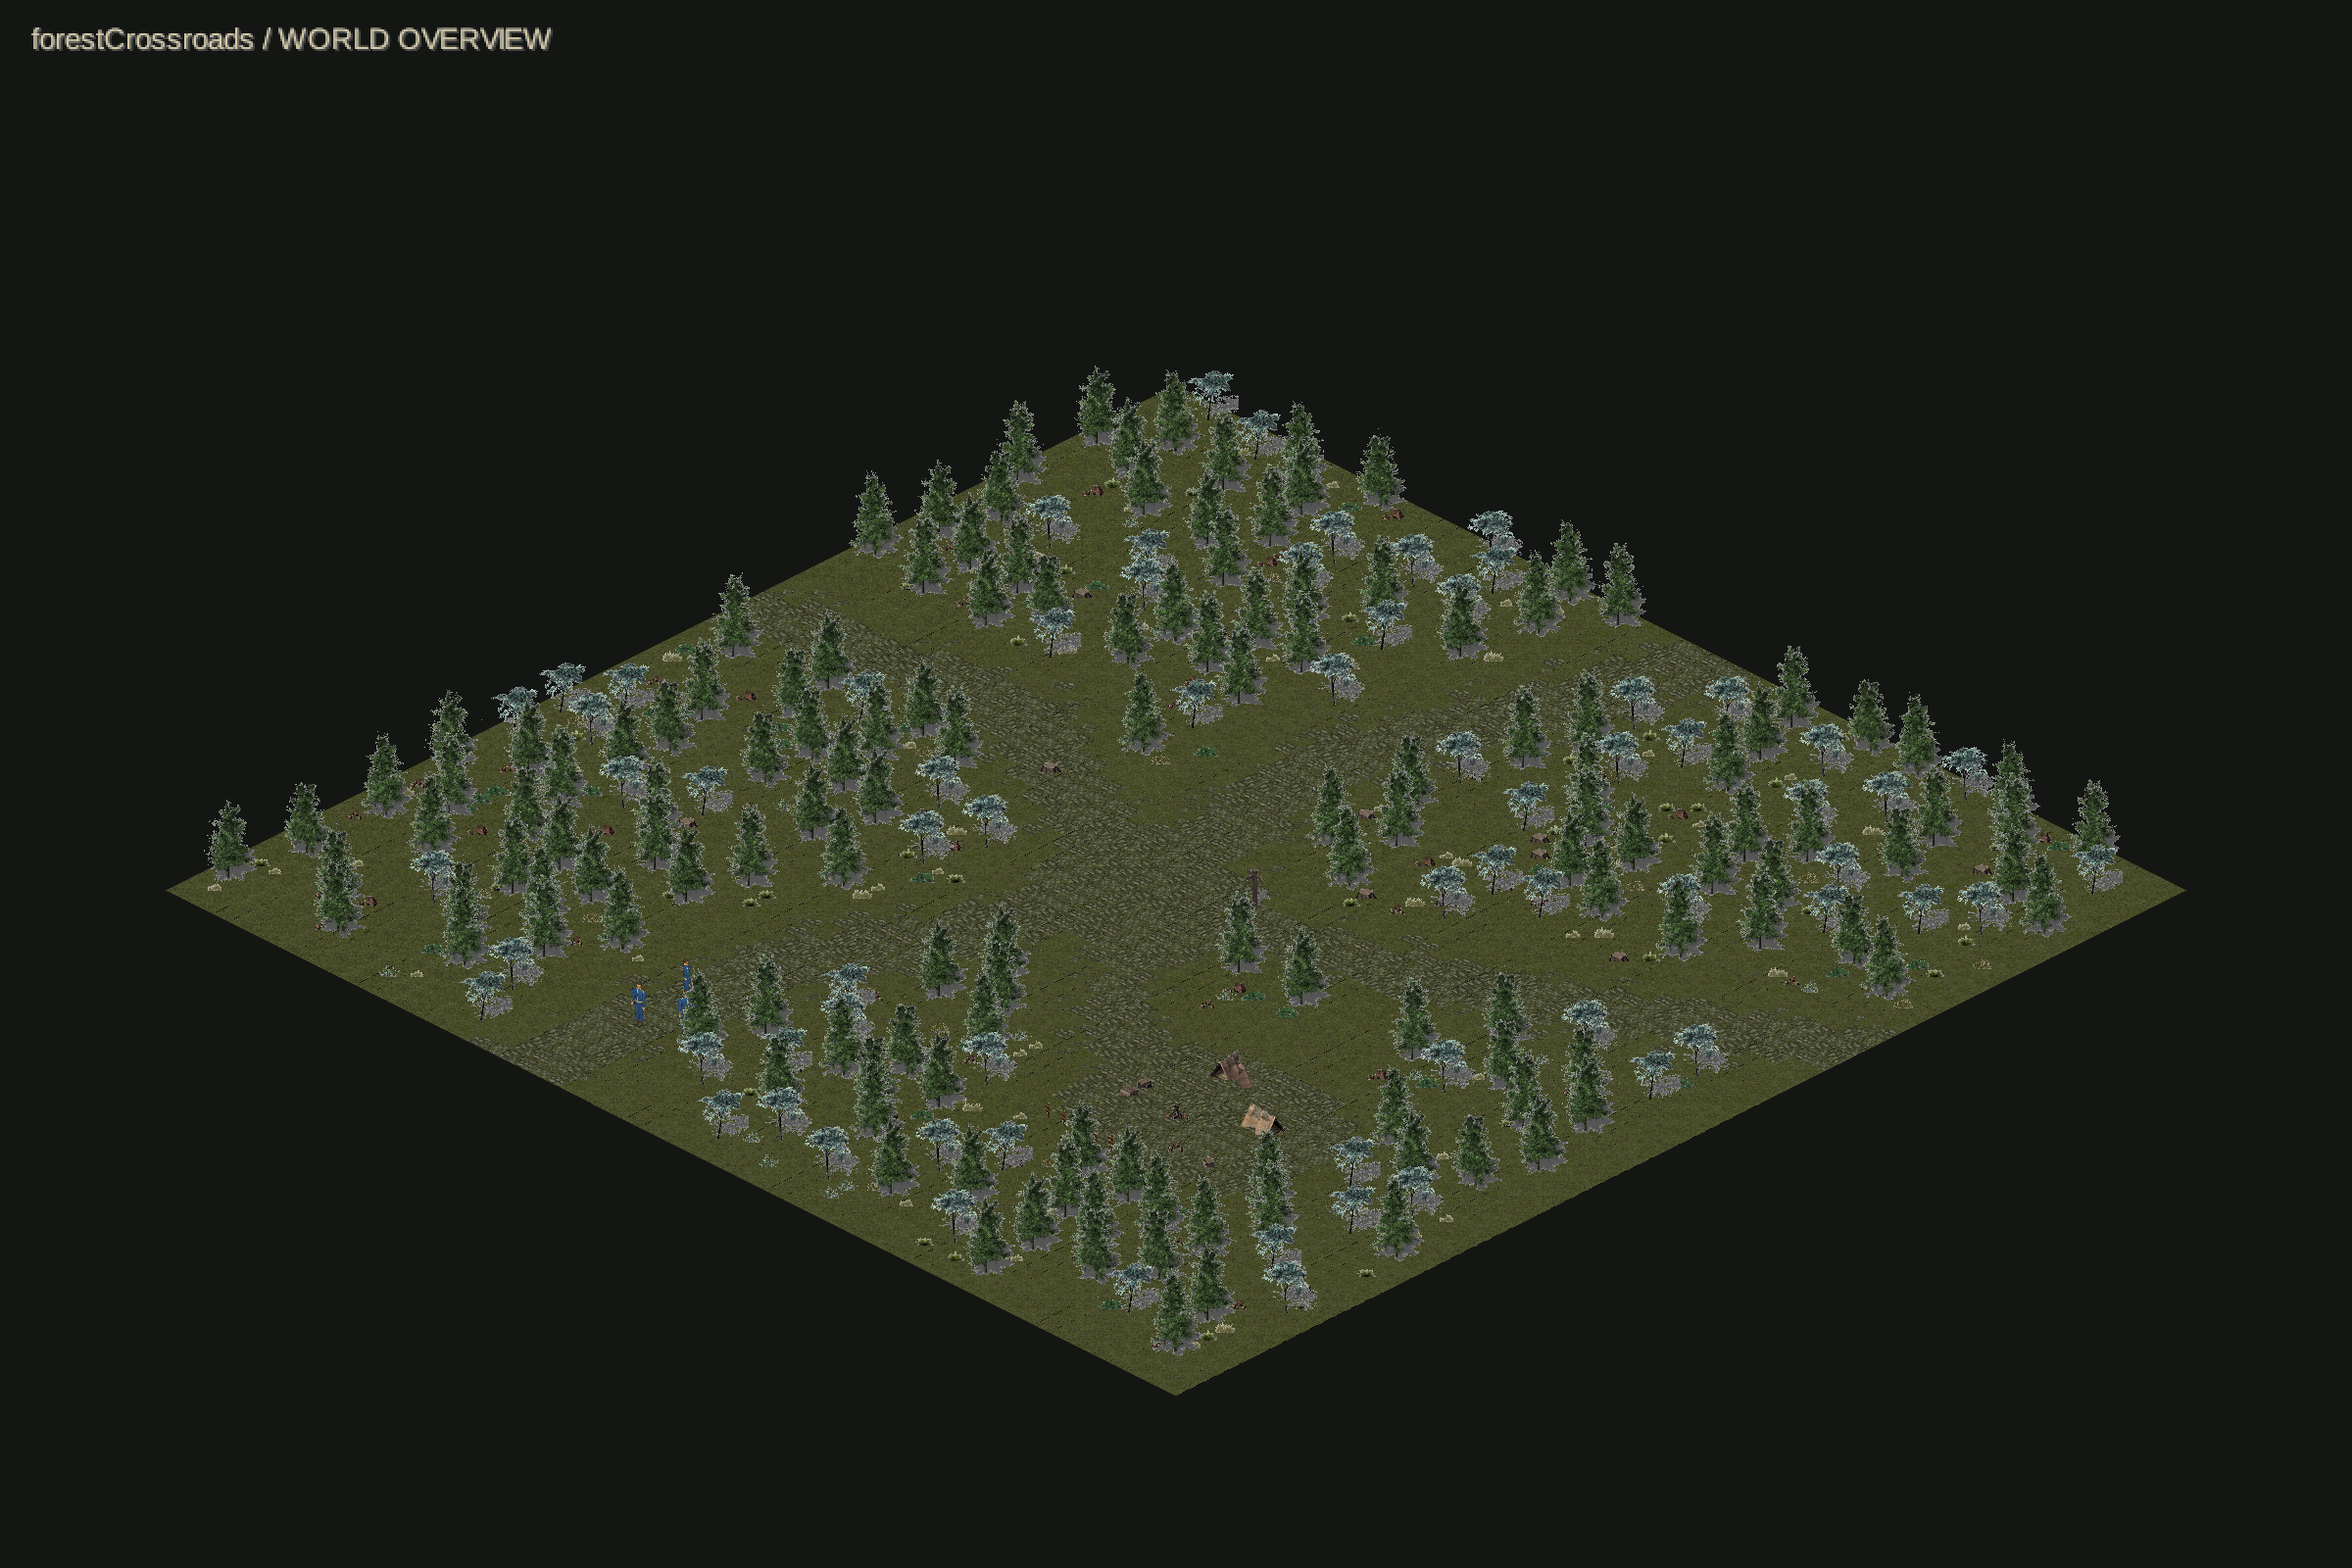
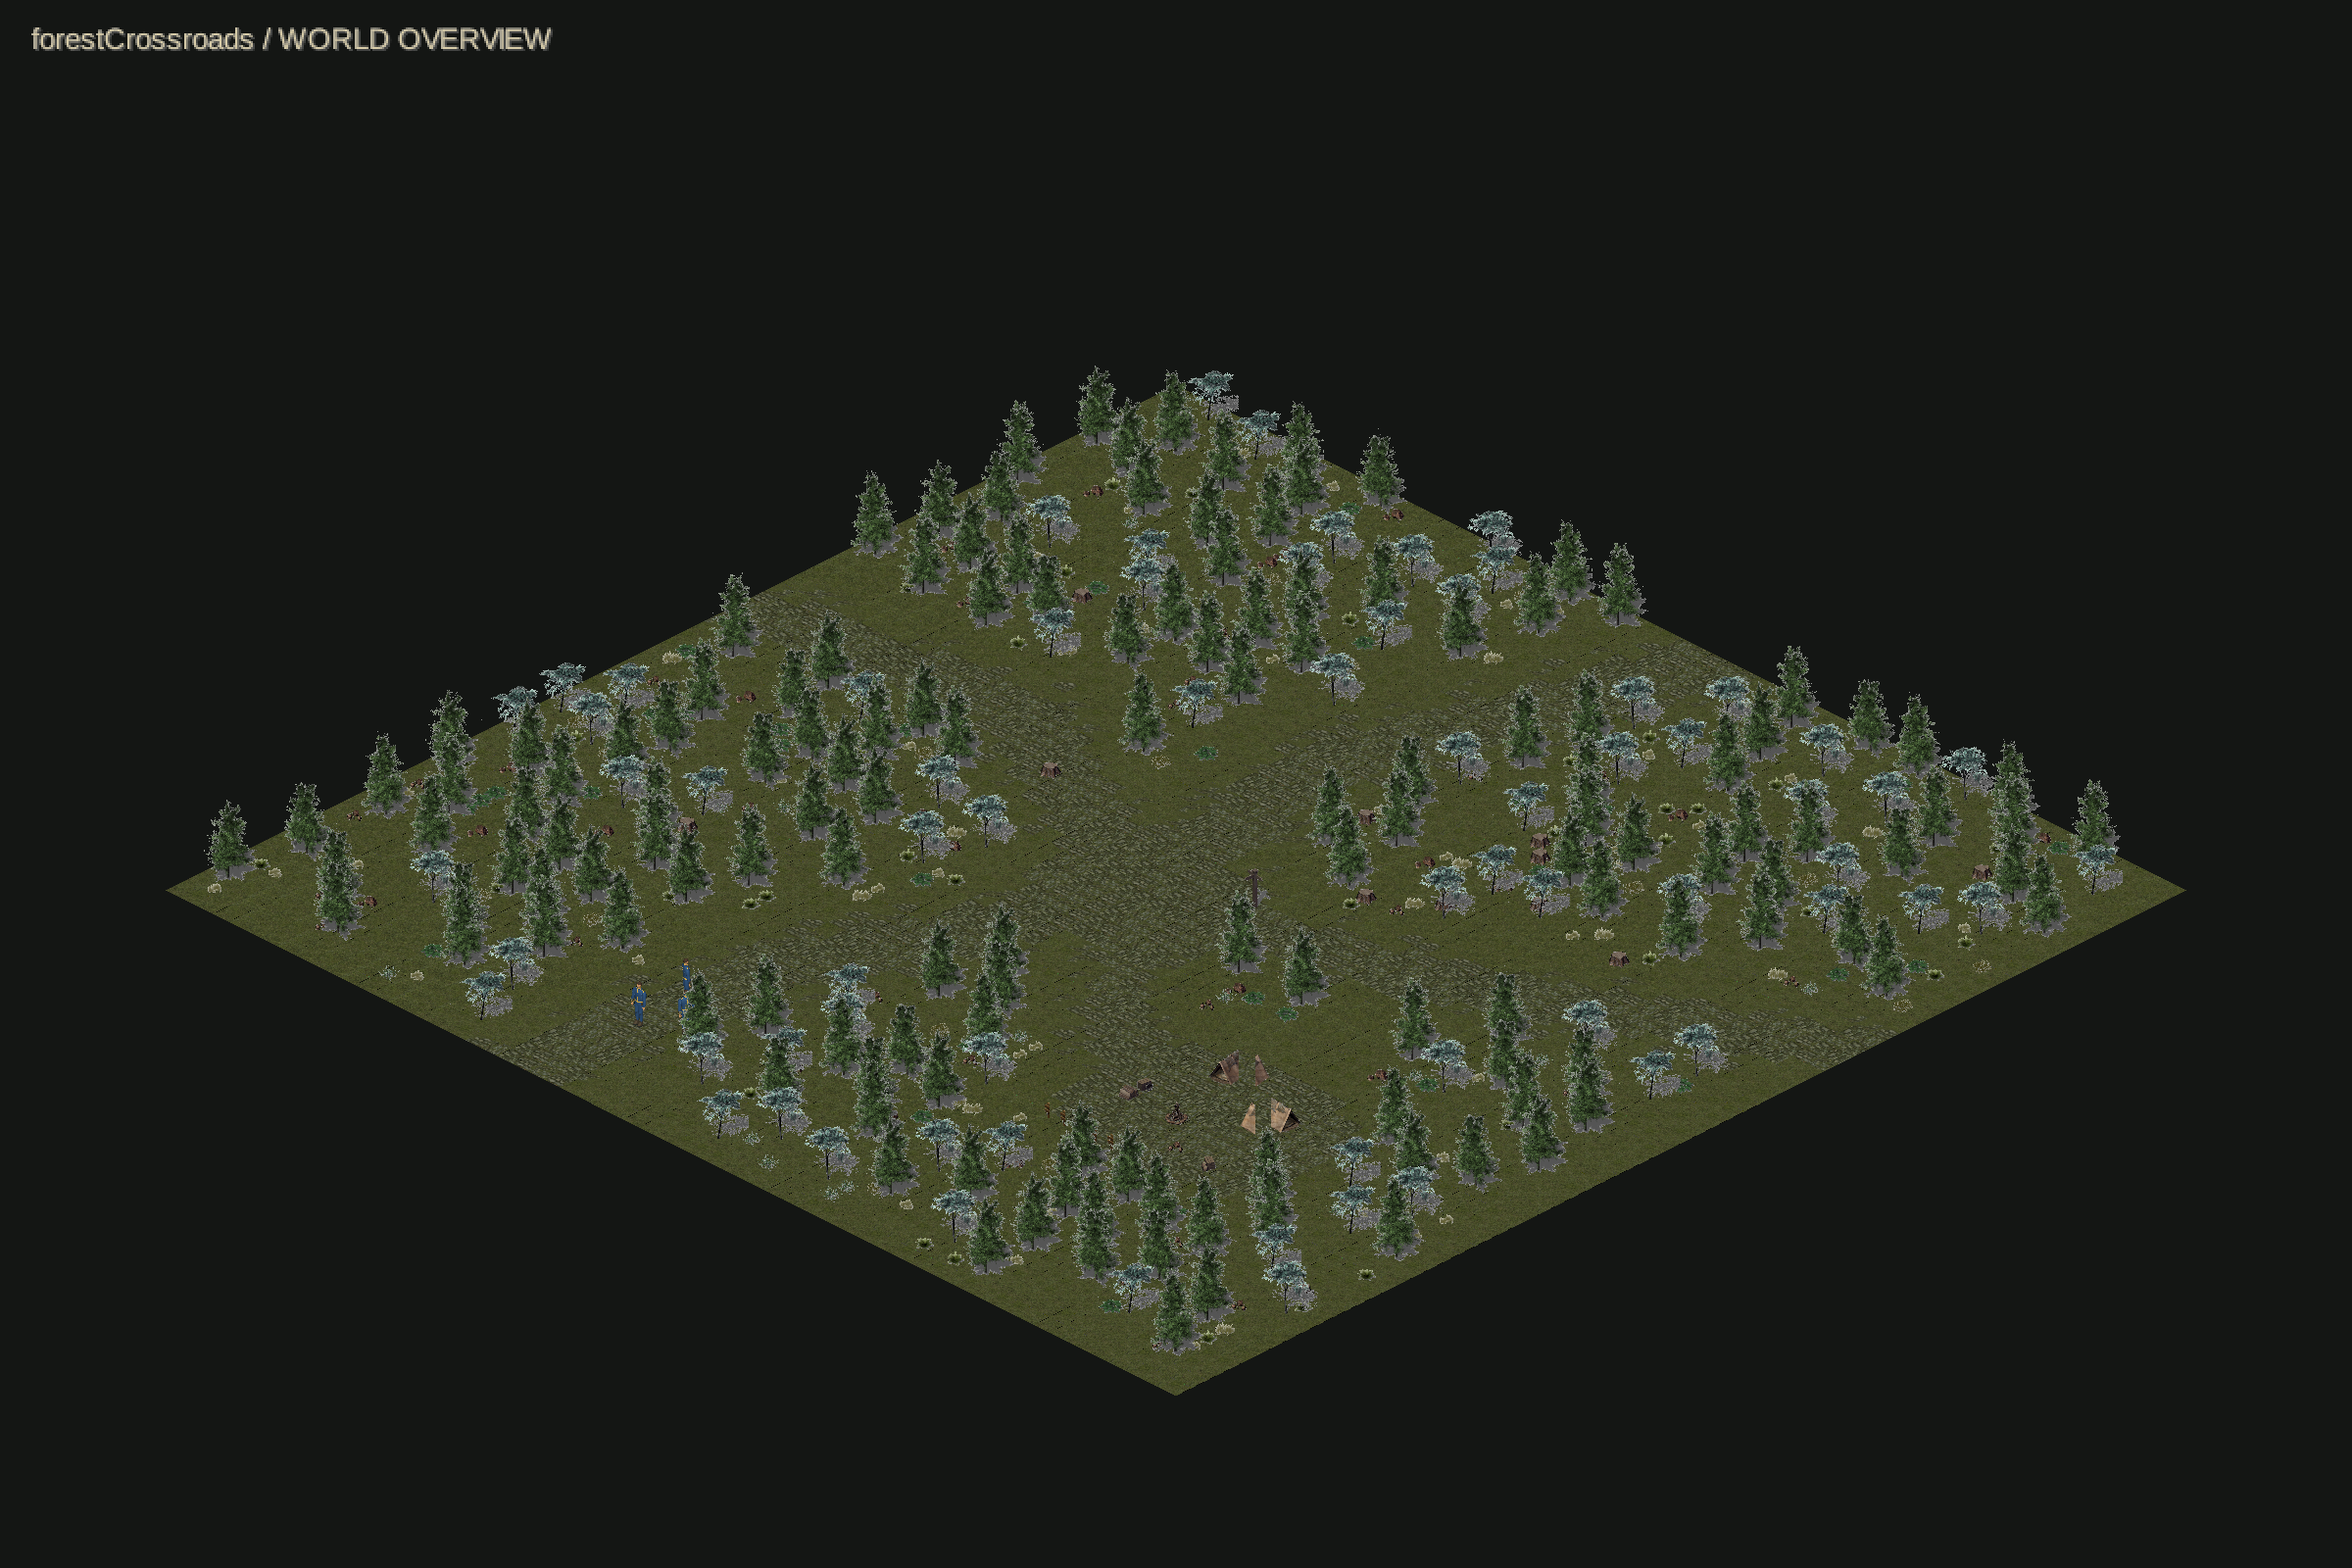
culling of items on the map fixed

Changed region(s): [[0.5312, 0.6875, 0.5625, 0.7188]]

diff --git a/core/src/main/java/io/github/TorenDropProject/world/WorldMapImporter.java b/core/src/main/java/io/github/TorenDropProject/world/WorldMapImporter.java
@@ -18,6 +18,7 @@ public final class WorldMapImporter {
     private static final int CHUNK_SIZE = 16;
     private static final float ROOT_TWO = (float)Math.sqrt(2);
     private static final float COS_ELEVATION = (float)Math.cos(Math.PI / 6);
+    private static final float LAYER_OFFSET = 0.0005f;
 
     public PreparedMap prepare(TiledMap tiledMap, JsonValue config) {
         int width = tiledMap.getProperties().get("width", Integer.class);
@@ -79,10 +80,12 @@ public final class WorldMapImporter {
                             float x = result.grid.centerX(col), z = result.grid.centerZ(row);
                             if (ground) {
                                 // Retain the base floor under raised platforms; it is visible from their edges.
-                                ground(buffer, cell, x, elevation + layerIndex * 0.0005f, z, result.grid.cellSize);
+                                ground(buffer, cell, x, elevation + layerIndex * LAYER_OFFSET, z, result.grid.cellSize);
                             } else {
                                 TileStyle style = styles.get(tile);
                                 float y = fixedElevation ? elevation : result.grid.elevation(col, row);
+                                // The footprint must sit above every ground layer's anti-flicker offset.
+                                y += (tiledMap.getLayers().getCount() + 1) * LAYER_OFFSET;
                                 cutout(buffer, cell, style, x, y, z, tileWidth, result.grid.cellSize);
                                 if (solid || style.solid) result.grid.block(col, row);
                             }
@@ -177,16 +180,33 @@ public final class WorldMapImporter {
     private void cutout(Buffer buffer, TiledMapTileLayer.Cell cell, TileStyle style, float x, float y, float z,
                         int tileWidth, float cellSize) {
         TextureRegion region = cell.getTile().getTextureRegion();
+        float[][] points = cutoutPoints(region.getRegionWidth(), region.getRegionHeight(), style.anchorX,
+            style.anchorY, x, y, z, tileWidth, cellSize);
+        float seam = 1f - style.anchorY / region.getRegionHeight();
+        if (style.anchorY > 0) {
+            quad(buffer, cell, new float[][]{points[0], points[1], points[3], points[2]},
+                new float[][]{{0,1},{1,1},{1,seam},{0,seam}}, false);
+        }
+        if (style.anchorY < region.getRegionHeight()) {
+            quad(buffer, cell, new float[][]{points[2], points[3], points[5], points[4]},
+                new float[][]{{0,seam},{1,seam},{1,0},{0,0}}, false);
+        }
+    }
+
+    /** Bottom, anchor and top pairs. Fold the footprint forward without changing its screen projection. */
+    static float[][] cutoutPoints(float width, float height, float anchorX, float anchorY,
+                                  float x, float y, float z, int tileWidth, float cellSize) {
+        require(anchorY >= 0 && anchorY <= height, "Cutout anchor outside image");
         float pixelsPerUnit = tileWidth / (ROOT_TWO * cellSize);
-        float left = -style.anchorX / pixelsPerUnit;
-        float right = (region.getRegionWidth() - style.anchorX) / pixelsPerUnit;
-        float bottom = -style.anchorY / pixelsPerUnit / COS_ELEVATION;
-        float top = (region.getRegionHeight() - style.anchorY) / pixelsPerUnit / COS_ELEVATION;
-        // Upright plane at an explicit ground anchor. No character-relative camera or screen coordinates.
-        float[][] points = {{x+left/ROOT_TWO,y+bottom,z-left/ROOT_TWO},
-            {x+right/ROOT_TWO,y+bottom,z-right/ROOT_TWO},{x+right/ROOT_TWO,y+top,z-right/ROOT_TWO},
-            {x+left/ROOT_TWO,y+top,z-left/ROOT_TWO}};
-        quad(buffer, cell, points, new float[][]{{0,1},{1,1},{1,0},{0,0}}, false);
+        float left = -anchorX / pixelsPerUnit / ROOT_TWO;
+        float right = (width - anchorX) / pixelsPerUnit / ROOT_TWO;
+        float top = (height - anchorY) / pixelsPerUnit / COS_ELEVATION;
+        // At 30 degrees, moving toward the camera on the ground projects downward by sin(30).
+        // Previously these pixels extended below Y=ground and were cut off by the depth buffer.
+        float forward = anchorY / pixelsPerUnit / 0.5f / ROOT_TWO;
+        return new float[][]{{x+left+forward,y,z-left+forward},{x+right+forward,y,z-right+forward},
+            {x+left,y,z-left},{x+right,y,z-right},
+            {x+left,y+top,z-left},{x+right,y+top,z-right}};
     }
 
     private void quad(Buffer buffer, TiledMapTileLayer.Cell cell, float[][] points, float[][] uv, boolean inset) {

diff --git a/core/src/test/java/io/github/TorenDropProject/world/WorldCutoutTest.java b/core/src/test/java/io/github/TorenDropProject/world/WorldCutoutTest.java
@@ -1,0 +1,41 @@
+package io.github.TorenDropProject.world;
+
+import com.badlogic.gdx.graphics.OrthographicCamera;
+import com.badlogic.gdx.math.Vector3;
+import com.badlogic.gdx.utils.GdxNativesLoader;
+import org.junit.BeforeClass;
+import org.junit.Test;
+
+import static org.junit.Assert.*;
+
+public class WorldCutoutTest {
+    @BeforeClass public static void natives() { GdxNativesLoader.load(); }
+
+    @Test public void completeSpriteStaysAboveTerrainWithoutMovingItsProjectedAnchor() {
+        OrthographicCamera camera = new WorldCameraRig().camera();
+        camera.viewportWidth = 20;
+        camera.viewportHeight = 13;
+        // Item, tall prop, and both tree atlases, including edge anchors.
+        for (int[] sprite : new int[][]{{64,64,32,16},{64,96,32,16},{126,126,63,6},
+            {128,190,64,8},{64,64,32,0},{64,64,32,64}}) {
+            for (float elevation : new float[]{0,2,4}) for (float size : new float[]{0.5f,1,2}) {
+                float[][] points = WorldMapImporter.cutoutPoints(sprite[0], sprite[1], sprite[2], sprite[3],
+                    5, elevation, -7, 64, size);
+                for (float zoom : new float[]{0.4f,1,2}) {
+                    camera.zoom = zoom;
+                    camera.update();
+                    Vector3 anchor = camera.project(new Vector3(5, elevation, -7), 0, 0, 1200, 780);
+                    float pixelsPerArtPixel = 60f / zoom * (float)Math.sqrt(2) * size / 64;
+                    for (int i = 0; i < points.length; i++) {
+                        assertTrue("Sprite pixels must not be buried", points[i][1] >= elevation);
+                        Vector3 screen = camera.project(new Vector3(points[i]), 0, 0, 1200, 780);
+                        float pixelX = i % 2 == 0 ? -sprite[2] : sprite[0] - sprite[2];
+                        float pixelY = i < 2 ? -sprite[3] : i < 4 ? 0 : sprite[1] - sprite[3];
+                        assertEquals(anchor.x + pixelX * pixelsPerArtPixel, screen.x, 0.002f);
+                        assertEquals(anchor.y + pixelY * pixelsPerArtPixel, screen.y, 0.002f);
+                    }
+                }
+            }
+        }
+    }
+}

diff --git a/tools/generate_locations.py b/tools/generate_locations.py
@@ -137,8 +137,8 @@ def forest():
     ], [(31, 33, 6, 5), (47, 45, 7, 6)], [(23, 57), (25, 56), (23, 54)])
     location.paths()
     location.vegetation(.38)
-    # A sheltered caravan stop beside the road: paired tent tiles, fire, supplies.
-    for x, y, gid in [(45, 42, 55), (46, 42, 56), (49, 44, 57), (50, 44, 58)]:
+    # A screen-horizontal tile pair spans (+1 column, -1 row) in the isometric grid.
+    for x, y, gid in [(45, 42, 55), (46, 41, 56), (49, 44, 57), (50, 43, 58)]:
         location.put("Cliffs and obstacles", x, y, gid)
     for x, y, gid in [(46, 46, 69), (43, 45, 63), (43, 46, 67), (50, 48, 65),
                       (48, 48, 98), (35, 30, 105), (20, 28, 103)]:

diff --git a/tools/generate_frontier_locations.py b/tools/generate_frontier_locations.py
@@ -105,7 +105,8 @@ def mercy():
     for x in range(17, 48):
         if x not in range(28, 38):
             loc.put("Cliffs and obstacles", x, 46, 73)
-    for x, y, gid in [(21, 28, 55), (22, 28, 56), (24, 28, 57), (25, 28, 58),
+    # Join each tent's atlas halves horizontally in screen space.
+    for x, y, gid in [(21, 28, 55), (22, 27, 56), (24, 28, 57), (25, 27, 58),
                       (41, 42, 63), (42, 42, 67), (40, 41, 68), (28, 33, 69),
                       (25, 40, 65), (38, 39, 66), (29, 46, 105)]:
         loc.put("Cliffs and obstacles" if gid != 69 else "Scattered details", x, y, gid)

diff --git a/docs/characters/architecture.md b/docs/characters/architecture.md
@@ -130,6 +130,13 @@ against the same camera frustum. These are map-wide batch counts, not a claim
 that all are drawn every frame. The opaque stone patch for risers references
 existing atlas pixels; no image file was modified or duplicated.
 
+Cutout pixels above `worldAnchorY` form an upright plane. Pixels below the anchor
+fold forward onto the ground, preserving their projected size at the fixed
+30-degree camera elevation. This keeps item bases and baked footprints visible
+instead of burying them under terrain. The footprint sits just above all ground
+layer offsets and still shares the world depth buffer. Screen-horizontal atlas
+pairs, such as tents, occupy (+1 column, -1 Tiled row) relative to their first half.
+
 Cutouts use DefaultShader's alpha-test path. Because that shader only enables
 alpha discard with BlendingAttribute, ONE/ZERO blending replaces surviving
 pixels while AlphaTest discards transparent ones before they write depth.

diff --git a/assets/maps/README.md b/assets/maps/README.md
@@ -20,6 +20,11 @@ Mercy Crossing uses the new wasteland sheets. The supplied Wasteland Pass sample
 also has world layer metadata and a `.world.json` descriptor so the same loader
 can render it; it remains a standalone sample, outside the travel catalog.
 
+The captures include the item-clipping correction: pixels below a prop's anchor
+lie on the terrain instead of underneath it. Crates, rocks, campfires and tree
+bases retain their full image. Tent halves also join at the same screen height
+in Mercy Crossing, Forest Crossroads and both pass maps.
+
 To regenerate the screenshots, build the desktop JAR, then run from `assets/`:
 
 ```sh
